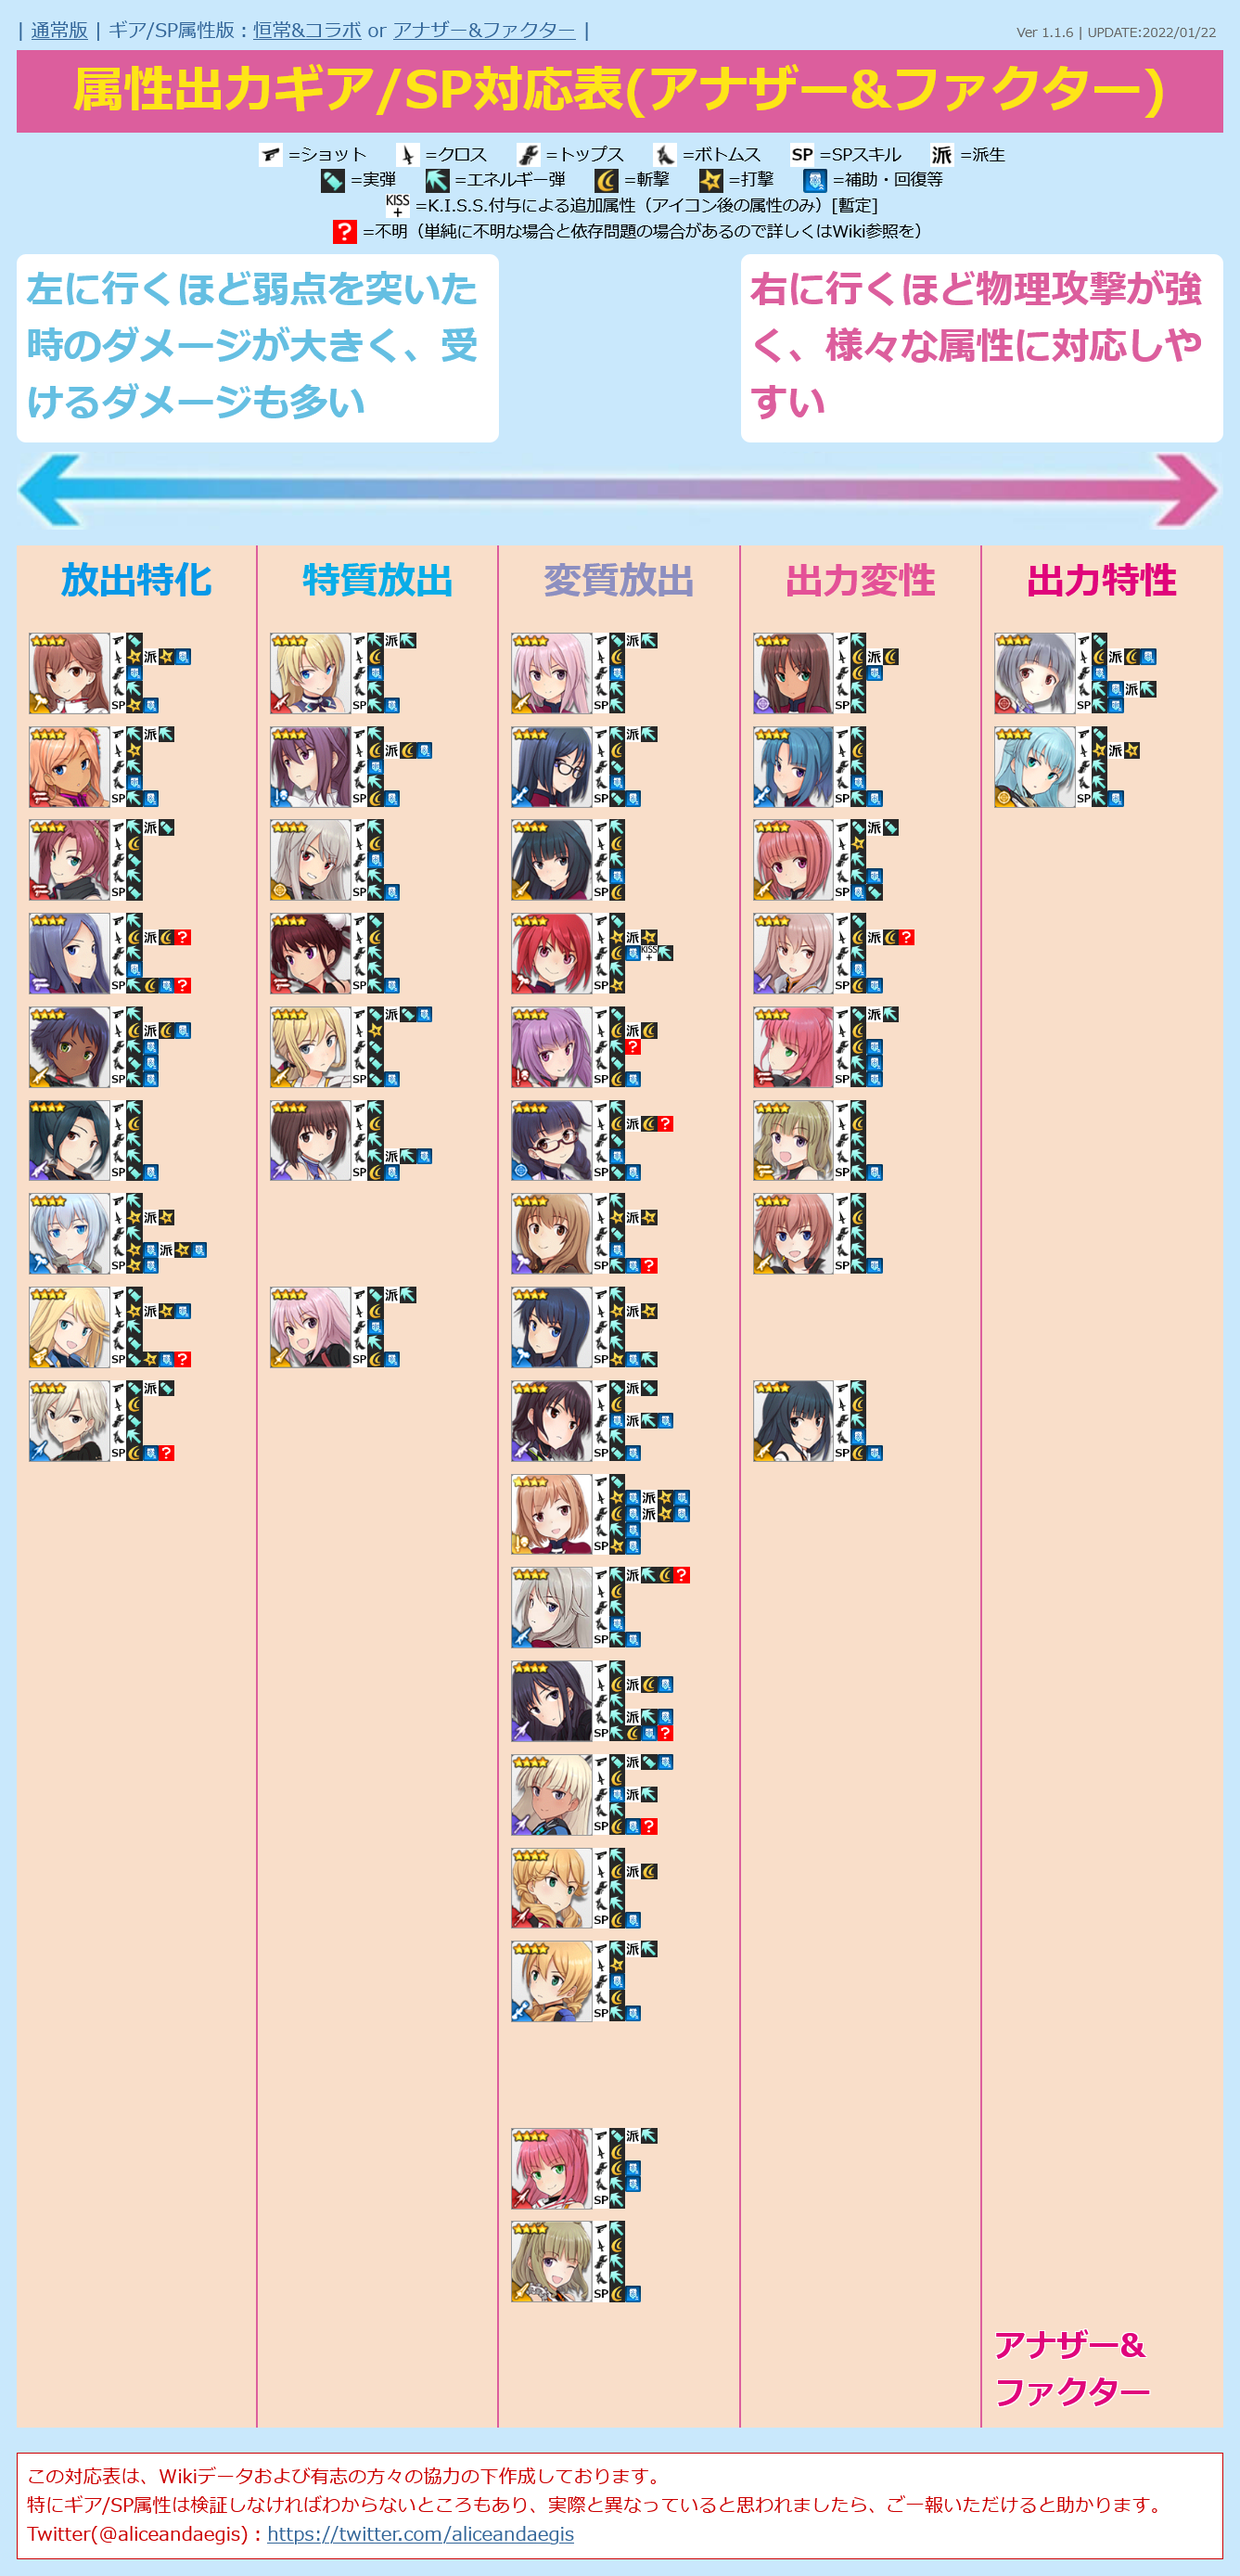
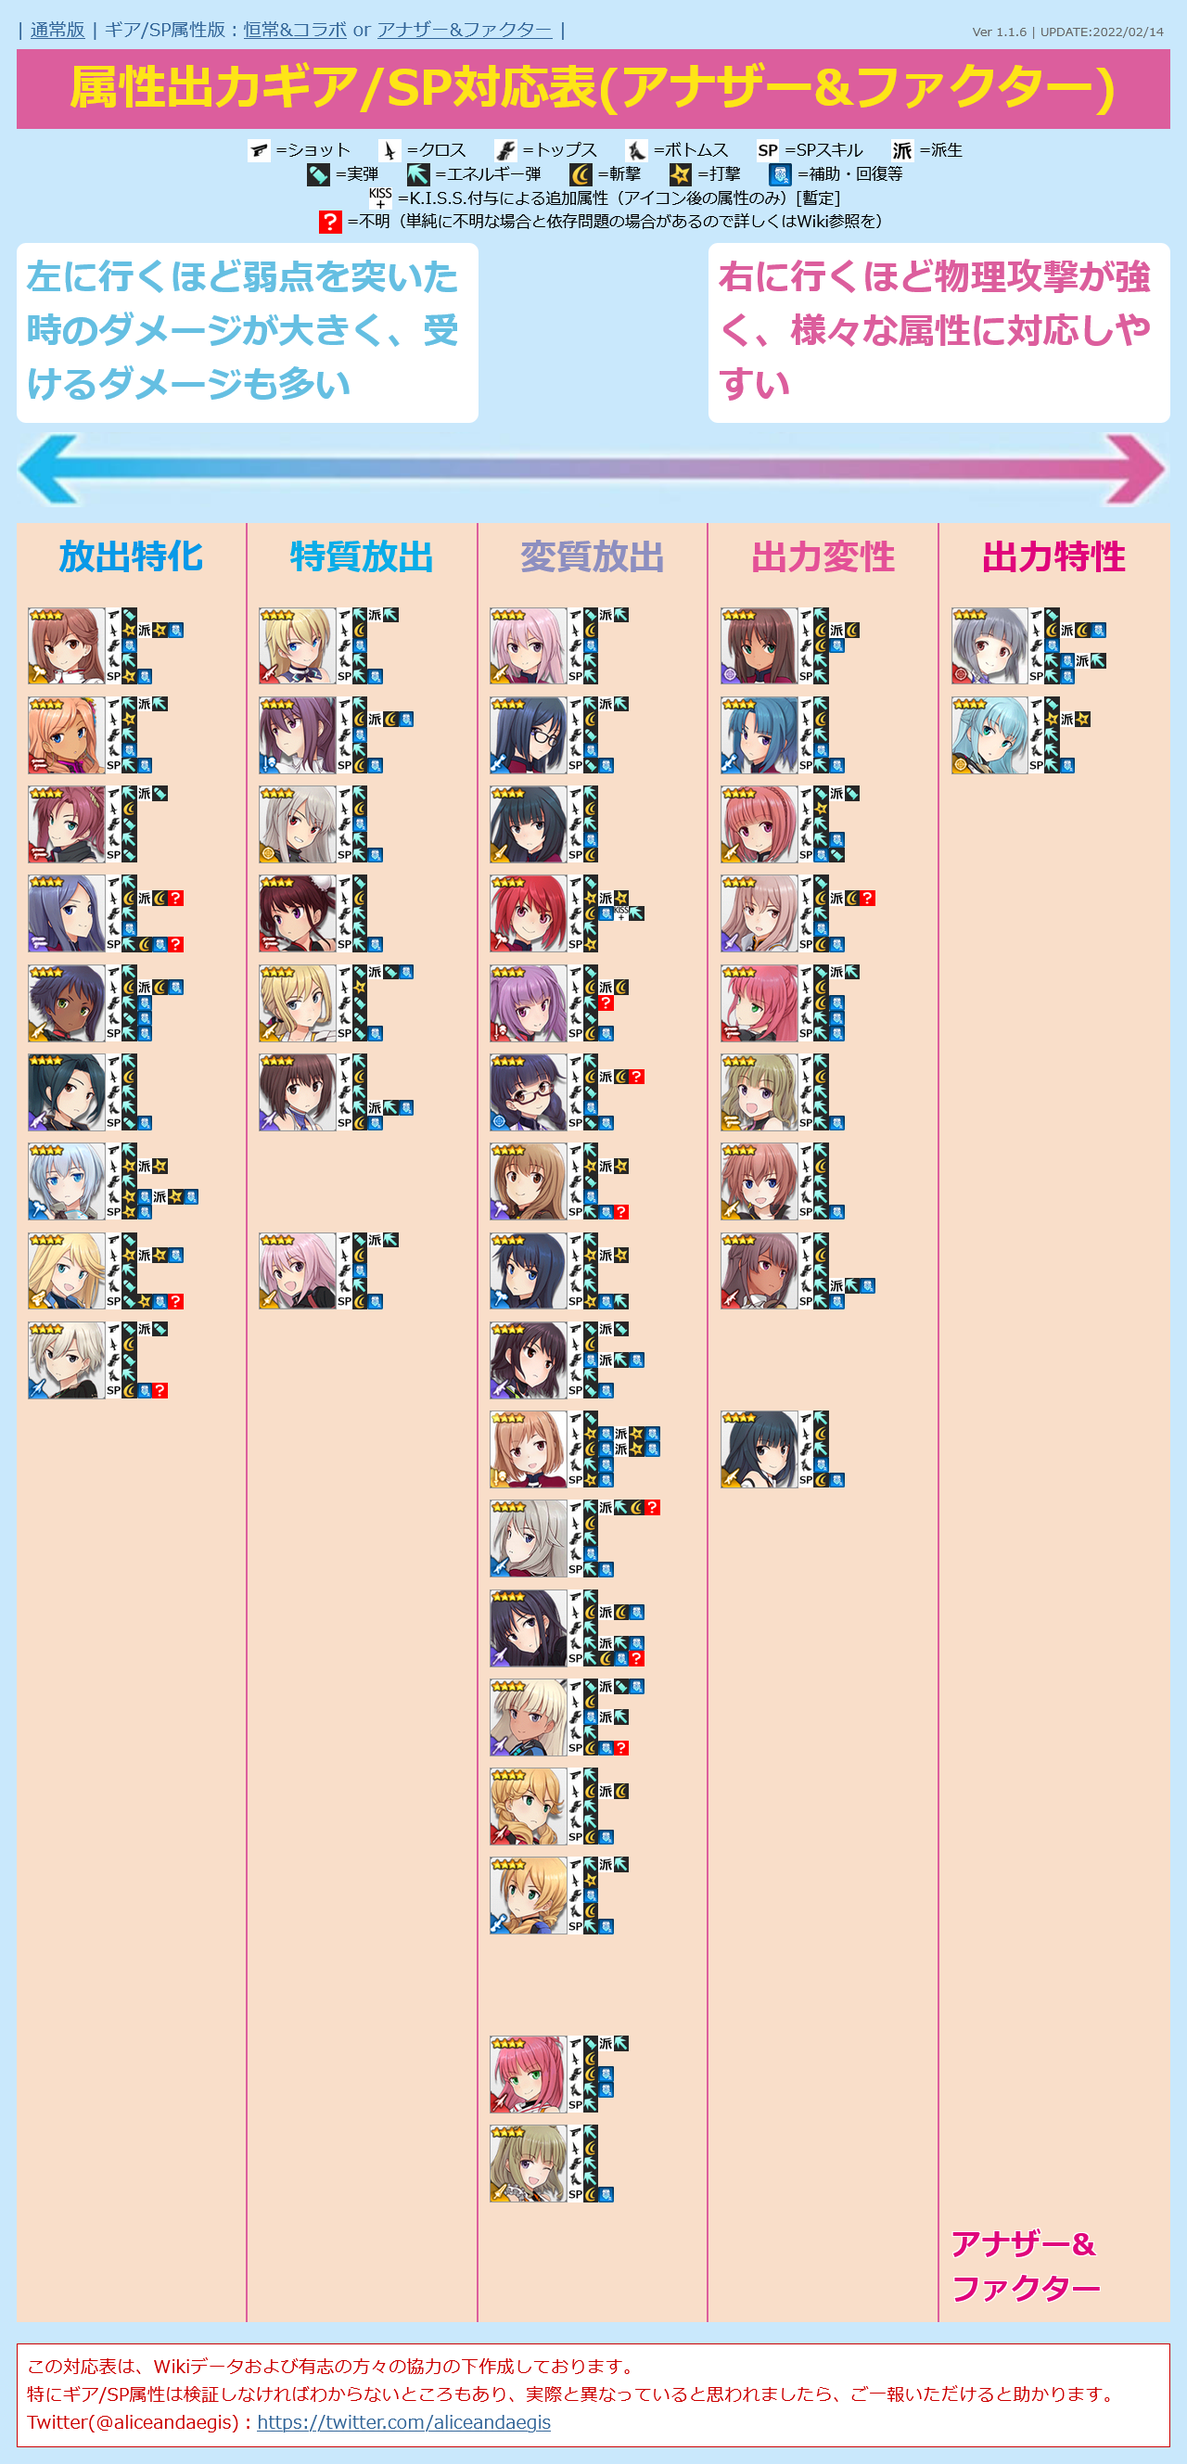
UPDATE charadata
・アナザー ファティマ・ベトロラム / Miθraを追加

diff --git a/alice.html b/alice.html
@@ -12,7 +12,7 @@
   <script>
 
 /* 更新情報 必要に応じて書き換えてください */
-  var version = "Ver 1.1.6 | UPDATE:2022/01/22";
+  var version = "Ver 1.1.6 | UPDATE:2022/02/14";
 
 
 /*
@@ -1236,11 +1236,25 @@
       "equip1": "2",
       "equip2": "3",
       "equip3": "2",
-      "equip4": "2",
+      "equip4": "2/25",
       "sp": "3?",
       "attr": "3",
       "link": "https://wikiwiki.jp/alicegear/%E3%83%95%E3%82%A1%E3%83%86%E3%82%A3%E3%83%9E%E3%83%BB%E3%83%99%E3%83%88%E3%83%AD%E3%83%A9%E3%83%A0",
       "category": ""
+    },
+    {
+      "id": "42",
+      "type": "4",
+      "src": "another-fatima.png",
+      "name": "ファティマ・ベトロラム / Miθra",
+      "equip1": "2",
+      "equip2": "3",
+      "equip3": "2",
+      "equip4": "2/25",
+      "sp": "25",
+      "attr": "3",
+      "link": "https://wikiwiki.jp/alicegear/%E3%83%95%E3%82%A1%E3%83%86%E3%82%A3%E3%83%9E%E3%83%BB%E3%83%99%E3%83%88%E3%83%AD%E3%83%A9%E3%83%A0Mi%CE%B8ra",
+      "category": "10"
     },
     {
       "id": "43",
